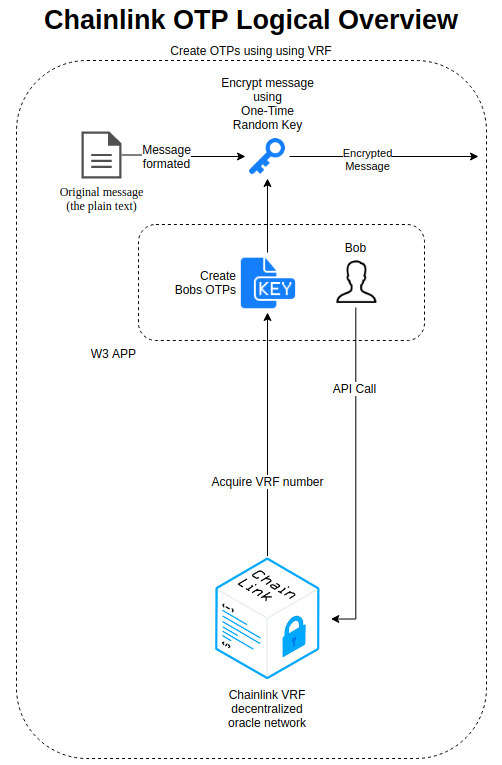
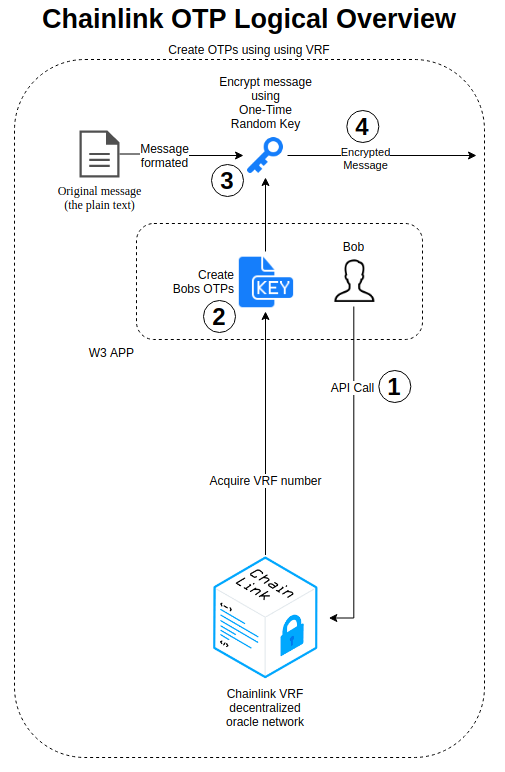
Image update

diff --git a/README.md b/README.md
@@ -25,10 +25,10 @@ Thomas Greco (TG)
 
 ### Phase I - Creating the OTP
 
-1. Request a random number using Chainlink VRF
-2. Use the random number to create one-time pads (OTPs)
-3. (Optional) Encrypt a user provided message using the OTPs
-4. Transfer encrypted message to the other party
+**1.** Request a random number using Chainlink VRF
+**2.** Use the random number to create one-time pads (OTPs)
+**3.** (Optional) Encrypt a user provided message using the OTPs
+**4.** Transfer encrypted message to the other party
 
 <p align="center">
   <img src="./images/Chainlink_OTP_Overview.png" />
